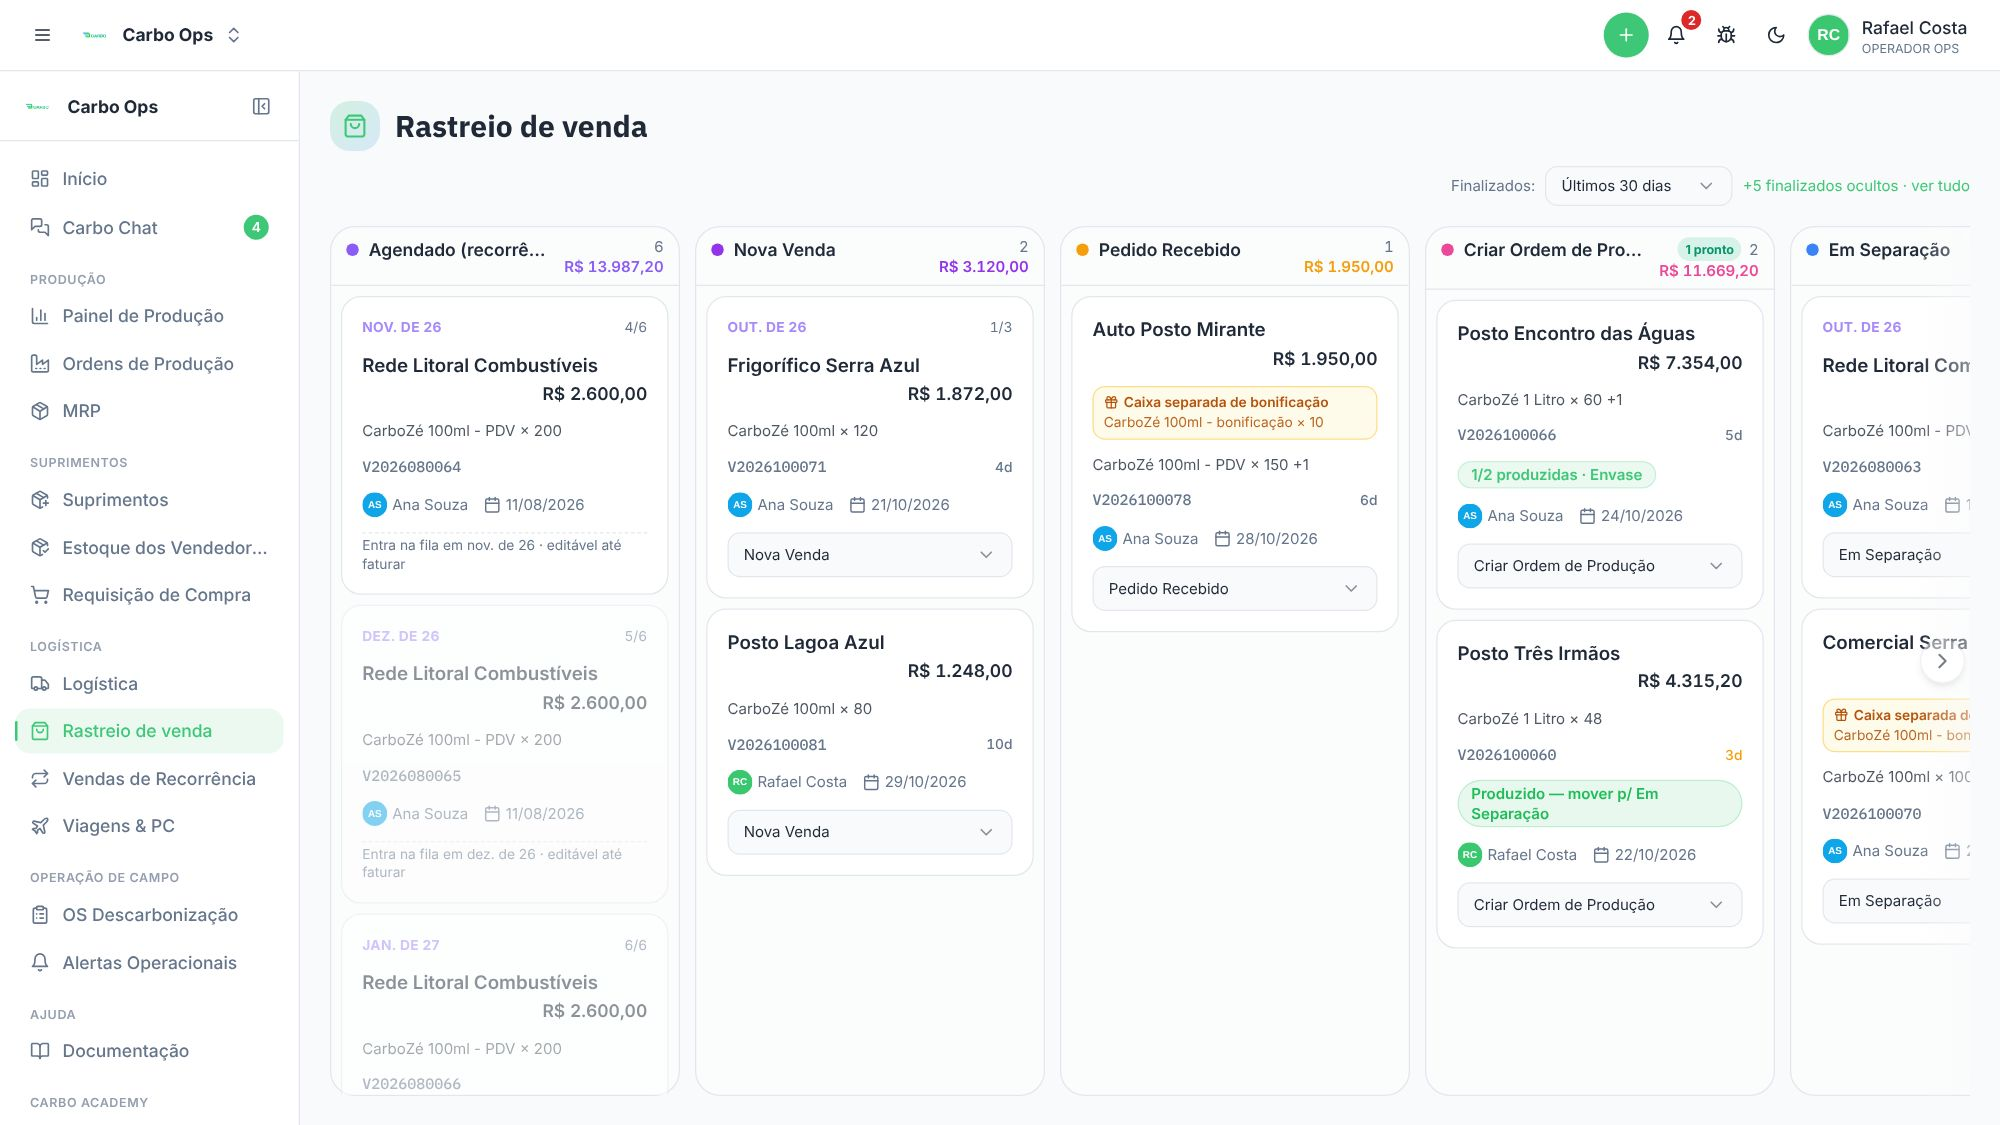
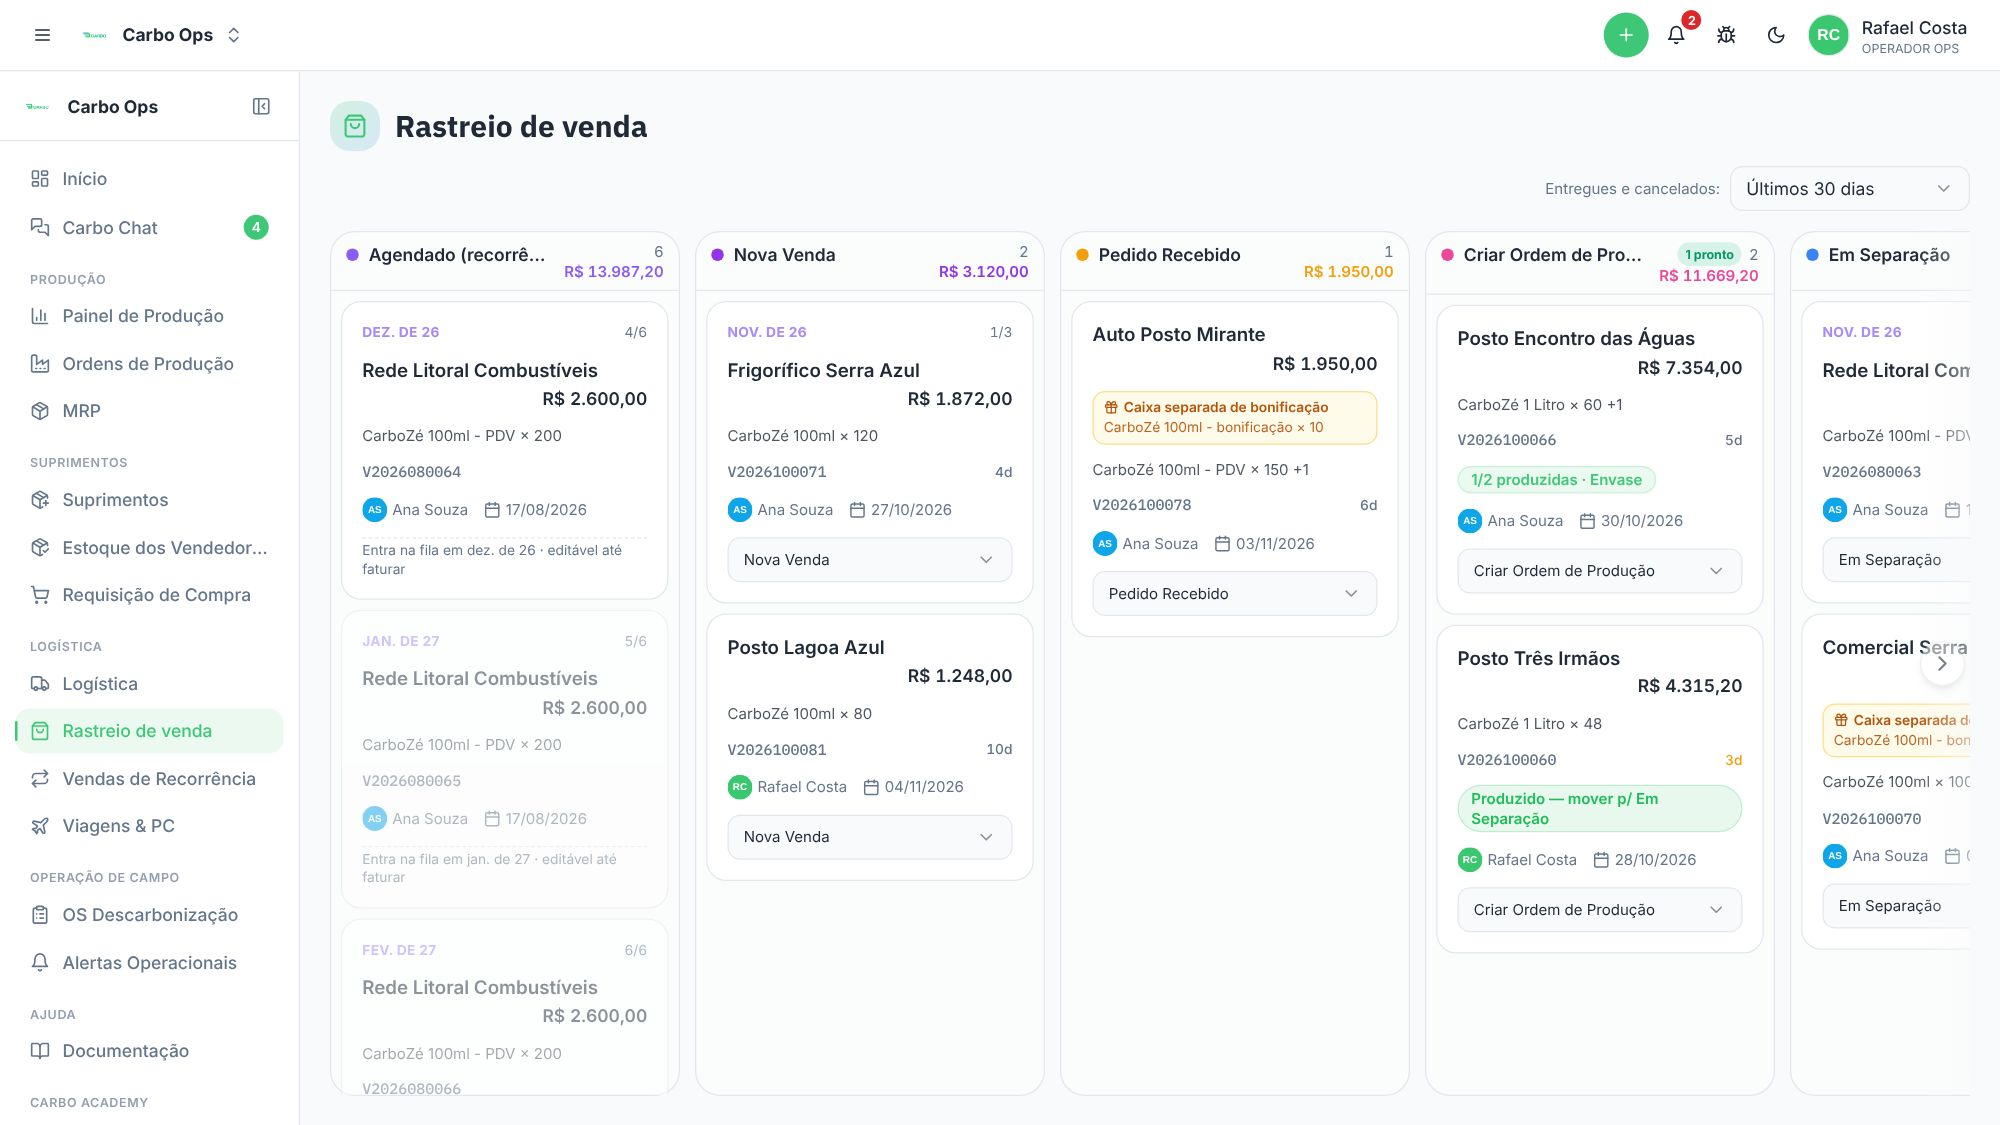
Rastreio (Ops): período só para Entregue e Cancelado, e o card faz sentido com a coluna
- O seletor 'Finalizados 30/90/Tudo' virou o seletor de período dos apps
  ('Entregues e cancelados'), e continua mexendo SÓ nessas duas colunas: os
  pedidos em andamento aparecem sempre todos. Pela data em que o pedido
  chegou à coluna (updated_at). ?finalizados=30|90|tudo antigos continuam lidos.
- 'Tudo' trazia os 500 mais recentes (.limit(500)) e dizia que era tudo:
  agora pagina sem teto (lerSemTeto). Sai a contagem de 'ocultos', que usava
  um filtro diferente do da lista.
- Entregue e Cancelado não mostram mais o prazo ('5d atrasado'), nem a caixa
  de bonificação a separar; o 'falta a NF de venda' fica no entregue sem o
  'não despache', e some no cancelado.

Claude-Session: https://claude.ai/code/session_014dECjKfnWPqtYYc6bX6aZY

diff --git a/apps/ops/src/pages/logistica/PosVenda.tsx b/apps/ops/src/pages/logistica/PosVenda.tsx
@@ -17,7 +17,8 @@ import {
   useEstoqueDoPedido, useOpsBySource, fetchNfFiles, type NfFiles,
   POSVENDA_STAGES, colunaDaEtapa, type FulfillmentStage, type PosVendaOrder,
 } from "@/hooks/usePosVenda";
-import { QuadroRolavel, useParamUrl } from "@carbo/shell";
+import { QuadroRolavel, useParamUrl, intervaloDoAtalho, type Periodo } from "@carbo/shell";
+import { PeriodoFiltro } from "@/components/ui/PeriodoFiltro";
 import { gerarEtiquetaPDF, type EtiquetaData } from "@/lib/etiquetaPdf";
 
 const brl = (v: number) => new Intl.NumberFormat("pt-BR", { style: "currency", currency: "BRL" }).format(v || 0);
@@ -350,6 +351,10 @@ const CorpoDoCard = memo(function CorpoDoCard({ o, op, onStage, onEtiqueta }: {
   onStage: (o: PosVendaOrder, stage: FulfillmentStage) => void;
   onEtiqueta: (o: PosVendaOrder) => void;
 }) {
+  /* ⚠ O card faz sentido com a COLUNA em que está: entregue ou cancelado não
+     tem prazo a cumprir ("5d atrasado" num pedido entregue lia como problema),
+     nem caixa a separar, nem carga a segurar. */
+  const finalizado = o.fulfillment_stage === "entregue" || o.fulfillment_stage === "cancelado";
   return (
     <>
       {/* Recorrência primeiro: o mês devido é a informação que
@@ -371,7 +376,7 @@ const CorpoDoCard = memo(function CorpoDoCard({ o, op, onStage, onEtiqueta }: {
       </div>
       {/* O QUE é o pedido. Antes o card só dizia quem e quanto —
           a Separação tinha de abrir o detalhe para saber o item. */}
-      {itensBonificados(o.items).length > 0 && (
+      {!finalizado && itensBonificados(o.items).length > 0 && (
         <div className="rounded-md border border-amber-400/50 bg-amber-50 dark:bg-amber-950/30 px-2 py-1">
           <p className="text-[11px] font-semibold text-amber-700 dark:text-amber-300 flex items-center gap-1">
             <Gift className="h-3 w-3 shrink-0" /> Caixa separada de bonificação
@@ -386,13 +391,15 @@ const CorpoDoCard = memo(function CorpoDoCard({ o, op, onStage, onEtiqueta }: {
       {/* ⚠ VERMELHO, não âmbar: o de cima é procedimento
           ("embale separado"), este é documento fiscal
           faltando numa carga que pode já estar na rua. */}
-      {faltaNotaDeVenda(o) && (
+      {/* Entregue sem a nota de venda continua sendo problema fiscal — o
+          aviso fica, sem o "não despache". Cancelado não precisa de nota. */}
+      {o.fulfillment_stage !== "cancelado" && faltaNotaDeVenda(o) && (
         <div className="rounded-md border border-red-400/60 bg-red-50 dark:bg-red-950/30 px-2 py-1">
           <p className="text-[11px] font-semibold text-red-700 dark:text-red-300 flex items-center gap-1">
             <FileWarning className="h-3 w-3 shrink-0" /> Só a NF de bonificação está vinculada
           </p>
           <p className="text-[11px] text-red-700/90 dark:text-red-300/90">
-            Falta a NF de venda — não despache sem ela.
+            {finalizado ? "Falta a NF de venda." : "Falta a NF de venda — não despache sem ela."}
           </p>
         </div>
       )}
@@ -401,7 +408,7 @@ const CorpoDoCard = memo(function CorpoDoCard({ o, op, onStage, onEtiqueta }: {
       )}
       <div className="flex items-center justify-between gap-2">
         <p className="text-xs text-muted-foreground font-mono">{o.order_number || "—"}</p>
-        {o.status !== "agendado" && o.agreed_delivery_date && (
+        {!finalizado && o.status !== "agendado" && o.agreed_delivery_date && (
           <span className={`text-[11px] tabular-nums font-medium ${prazoCor(o.agreed_delivery_date)}`}>
             {prazoTexto(o.agreed_delivery_date)}
           </span>
@@ -486,17 +493,28 @@ const CorpoDoCard = memo(function CorpoDoCard({ o, op, onStage, onEtiqueta }: {
 });
 
 export default function PosVenda() {
-  // Janela dos FINALIZADOS (entregue/cancelado). Ativos sempre carregam 100%.
-  // Na URL (`?finalizados=90` ou `=tudo`), para o F5 não voltar aos 30 dias
-  // de quem tinha aberto o histórico inteiro. 30 é o padrão e não aparece.
-  const [finalizadosUrl, setFinalizadosUrl] = useParamUrl("finalizados", "30");
-  const terminalDays: number | "all" = finalizadosUrl === "tudo" ? "all"
-    : (Number(finalizadosUrl) > 0 ? Number(finalizadosUrl) : 30);
-  const setTerminalDays = (v: number | "all") => setFinalizadosUrl(v === "all" ? "tudo" : String(v));
-  const { data, isLoading } = usePosVendaOrders(terminalDays);
+  /* Período dos FINALIZADOS (Entregue e Cancelado) — o seletor de período dos
+     apps, e SÓ para essas duas colunas: os pedidos em andamento aparecem
+     sempre todos (esconder um pedido em operação não faz sentido).
+     URL: `?finalizados=de,ate` (ex. `2026-10-01,2026-10-31`) ou `=tudo`; sem
+     nada, os últimos 30 dias. ⚠ Os valores antigos (`30`, `90`, `tudo`)
+     continuam lidos. */
+  const [finalizadosUrl, setFinalizadosUrl] = useParamUrl("finalizados", "", { replace: true });
+  const finalizados: Periodo = (() => {
+    if (finalizadosUrl === "tudo") return { from: "", to: "" };
+    const m = /^(\d{4}-\d{2}-\d{2}),(\d{4}-\d{2}-\d{2})$/.exec(finalizadosUrl);
+    if (m) return m[1] <= m[2] ? { from: m[1], to: m[2] } : { from: m[2], to: m[1] };
+    if (finalizadosUrl === "90") return intervaloDoAtalho("90d");
+    return intervaloDoAtalho("30d");
+  })();
+  const setFinalizados = (p: Periodo) => {
+    const padrao = intervaloDoAtalho("30d");
+    if (p.from === padrao.from && p.to === padrao.to) return setFinalizadosUrl(null);
+    setFinalizadosUrl(!p.from && !p.to ? "tudo" : `${p.from},${p.to}`);
+  };
+  const { data, isLoading } = usePosVendaOrders(finalizados);
   usePosVendaRealtime(); // move card → reflete na tela de todos ao vivo
   const orders = data?.orders ?? [];
-  const terminalHidden = Math.max(0, (data?.terminalTotal ?? 0) - (data?.terminalShown ?? 0));
   const updateStage = useUpdateFulfillmentStage();
   const updateShipInfo = useUpdateShipmentInfo();
   const [dragId, setDragId] = useState<string | null>(null);
@@ -807,22 +825,10 @@ export default function PosVenda() {
           icon={ShoppingBag}
         />
 
-        {/* Janela dos finalizados — os ativos sempre aparecem 100%. */}
+        {/* Período só dos finalizados — os em andamento aparecem sempre todos. */}
         <div className="flex items-center justify-end gap-2 shrink-0 -mt-1 flex-wrap">
-          <span className="text-xs text-muted-foreground">Finalizados:</span>
-          <Select value={String(terminalDays)} onValueChange={(v) => setTerminalDays(v === "all" ? "all" : Number(v))}>
-            <SelectTrigger className="h-8 w-[150px] text-xs"><SelectValue /></SelectTrigger>
-            <SelectContent>
-              <SelectItem value="30">Últimos 30 dias</SelectItem>
-              <SelectItem value="90">Últimos 90 dias</SelectItem>
-              <SelectItem value="all">Tudo</SelectItem>
-            </SelectContent>
-          </Select>
-          {terminalDays !== "all" && terminalHidden > 0 && (
-            <button onClick={() => setTerminalDays("all")} className="text-xs text-primary hover:underline">
-              +{terminalHidden} finalizado{terminalHidden > 1 ? "s" : ""} oculto{terminalHidden > 1 ? "s" : ""} · ver tudo
-            </button>
-          )}
+          <span className="text-xs text-muted-foreground">Entregues e cancelados:</span>
+          <PeriodoFiltro value={finalizados} onChange={setFinalizados} comTodo longos disableFuture />
         </div>
 
         {isLoading ? (

diff --git a/apps/ops/src/hooks/usePosVenda.ts b/apps/ops/src/hooks/usePosVenda.ts
@@ -2,7 +2,7 @@ import { useEffect } from "react";
 import { useQuery, useMutation, useQueryClient } from "@tanstack/react-query";
 import { supabase } from "@/integrations/supabase/client";
 import { toast } from "sonner";
-import { lerSemTeto, lerPorIdsSemTeto } from "@carbo/shell";
+import { lerSemTeto, lerPorIdsSemTeto, intervaloDoAtalho, type Periodo } from "@carbo/shell";
 
 // ─────────────────────────────────────────────────────────────────────────────
 // Pós-venda: jornada das VENDAS MANUAIS (carboze_orders sem external_ref — as
@@ -254,20 +254,25 @@ const TERMINAL_STAGES = ["entregue", "cancelado"];
 
 export interface PosVendaData {
   orders: PosVendaOrder[];
-  terminalShown: number;   // finalizados carregados (dentro da janela)
-  terminalTotal: number;   // finalizados no total (para saber quantos ficaram fora)
+  terminalShown: number;   // finalizados carregados (dentro do período)
 }
 
 /**
- * Vendas manuais para o rastreio. NUNCA trunca os ATIVOS (carrega todos); os
- * FINALIZADOS (entregue/cancelado) vêm por JANELA DE TEMPO (terminalDays), com
- * contagem real — assim o board fica leve sem esconder nada em silêncio.
+ * Vendas manuais para o rastreio. NUNCA recorta os ATIVOS (carrega todos); só
+ * os FINALIZADOS (entregue/cancelado) vêm pelo PERÍODO escolhido na tela (o
+ * seletor de período dos apps), pela data em que foram movidos (`updated_at`).
+ * Período vazio = todos os finalizados.
+ *
+ * ⚠ Era `terminalDays` (30/90/"tudo") com `.limit(500)`: "Tudo" trazia os 500
+ * mais recentes e dizia que era tudo. Agora pagina sem teto (`lerSemTeto`).
  */
-export function usePosVendaOrders(terminalDays: number | "all" = 30) {
+export function usePosVendaOrders(finalizados: Periodo = intervaloDoAtalho("30d")) {
   return useQuery({
-    queryKey: ["ops", "pos-venda", terminalDays],
+    queryKey: ["ops", "pos-venda", finalizados.from, finalizados.to],
     queryFn: async (): Promise<PosVendaData> => {
-      const cutoff = terminalDays === "all" ? null : new Date(Date.now() - terminalDays * 86_400_000).toISOString();
+      // Dia LOCAL inteiro nas duas pontas (00:00 do início, 23:59:59 do fim).
+      const desde = finalizados.from ? new Date(`${finalizados.from}T00:00:00`).toISOString() : null;
+      const ate = finalizados.to ? new Date(`${finalizados.to}T23:59:59.999`).toISOString() : null;
       // Rastreio = vendas MANUAIS (Carbo Sales). Regra do external_ref:
       //  • sem external_ref → venda ainda no fluxo manual (aparece).
       //  • com external_ref (foi pro Bling p/ NF) → só aparece se for venda
@@ -287,13 +292,14 @@ export function usePosVendaOrders(terminalDays: number | "all" = 30) {
           .not("fulfillment_stage", "in", "(entregue,cancelado)")
           .order("created_at", { ascending: false }).order("id"))
           .then((data) => ({ data, error: null }), (error) => ({ data: null, error }));
-      // Finalizados: só dentro da janela, mais recentes primeiro.
-      const runTerminal = (cols: string) => {
-        let q = base(cols).in("fulfillment_stage", TERMINAL_STAGES)
-          .order("updated_at", { ascending: false }).limit(500);
-        if (cutoff) q = q.gte("updated_at", cutoff);
-        return q;
-      };
+      // Finalizados: só dentro do período, mais recentes primeiro — sem teto.
+      const runTerminal = (cols: string): Promise<{ data: any[] | null; error: any }> =>
+        lerSemTeto<any>(() => {
+          let q = base(cols).in("fulfillment_stage", TERMINAL_STAGES);
+          if (desde) q = q.gte("updated_at", desde);
+          if (ate) q = q.lte("updated_at", ate);
+          return q.order("updated_at", { ascending: false }).order("id");
+        }).then((data) => ({ data, error: null }), (error) => ({ data: null, error }));
 
       let act = await runActive(SELECT_COLS);
       let term = await runTerminal(SELECT_COLS);
@@ -316,16 +322,6 @@ export function usePosVendaOrders(terminalDays: number | "all" = 30) {
       act.data = (act.data || []).filter(notServiceOnly);
       term.data = (term.data || []).filter(notServiceOnly);
 
-      // Total de finalizados (para o "há mais N ocultos"). Só quando há janela.
-      let terminalTotal = (term.data || []).length;
-      if (cutoff) {
-        const cnt = await db.from("carboze_orders")
-          .select("*", { count: "exact", head: true })
-          .is("external_ref", null).or("status.is.null,status.neq.quote")
-          .in("fulfillment_stage", TERMINAL_STAGES);
-        terminalTotal = cnt.count ?? terminalTotal;
-      }
-
       const list = [...(act.data || []), ...(term.data || [])] as PosVendaOrder[];
 
       // Enriquece com a foto do vendedor (profiles.avatar_url).
@@ -335,7 +331,7 @@ export function usePosVendaOrders(terminalDays: number | "all" = 30) {
         const map = new Map((profs || []).map((p: any) => [p.id, p.avatar_url]));
         for (const o of list) o.vendedor_avatar = (o.vendedor_id && map.get(o.vendedor_id)) || null;
       }
-      return { orders: list, terminalShown: (term.data || []).length, terminalTotal };
+      return { orders: list, terminalShown: (term.data || []).length };
     },
     refetchInterval: 60_000,
   });

diff --git a/apps/ops/src/docs/secoes/logistica.ts b/apps/ops/src/docs/secoes/logistica.ts
@@ -16,7 +16,7 @@ export const SECOES_LOGISTICA: Secao[] = [
       colaborador: [
         "Vê os pedidos de todos os vendedores e move qualquer um de etapa.",
         "Entram no quadro as vendas lançadas pela tela Vender (no Sales ou aqui). Pedidos de loja on-line e pedidos que nasceram no Bling não entram. Venda só de serviço (descarbonização) também não: ela segue pela Ordem de Serviço.",
-        "Pedidos entregues e cancelados aparecem só dos últimos 30 dias, a não ser que você mude o filtro “Finalizados”.",
+        "Pedidos entregues e cancelados aparecem só dos últimos 30 dias, a não ser que você mude o período “Entregues e cancelados”.",
         "O quadro se atualiza sozinho: quando alguém move um card, ele muda na sua tela também.",
       ],
       gestor: [
@@ -29,12 +29,11 @@ export const SECOES_LOGISTICA: Secao[] = [
         print: { chave: "rastreio", legenda: "Rastreio de venda com os pedidos em cada etapa." },
         itens: [
           { n: 1, titulo: "Rastreio de venda", texto: "A jornada das vendas manuais. Operações controla da Nova Venda até a Entrega." },
-          { n: 2, titulo: "Finalizados", texto: "Quantos dias de pedidos entregues e cancelados aparecem: últimos 30 dias, últimos 90 dias ou tudo. Os pedidos em andamento aparecem sempre, todos." },
-          { n: 3, titulo: "Finalizados ocultos", texto: "Avisa quantos entregues/cancelados ficaram fora do período escolhido. Clique para ver tudo." },
-          { n: 4, titulo: "Coluna = etapa", texto: "Cada coluna é uma etapa, na ordem em que o pedido anda. Role o quadro para o lado para ver as outras: são doze." },
-          { n: 5, titulo: "Quantidade", texto: "Quantos pedidos estão naquela etapa agora." },
-          { n: 6, titulo: "Card do pedido", texto: "Um pedido. Clique para abrir os detalhes; arraste para outra coluna para mudar a etapa." },
-          { n: 7, titulo: "Seletor de etapa", texto: "Outra forma de mudar a etapa, sem arrastar: escolha a nova etapa na lista. Arrastar e escolher passam pelas mesmas conferências (veja “Mudando de etapa”)." },
+          { n: 2, titulo: "Entregues e cancelados", texto: "O período das colunas Entregue e Cancelado, pela data em que o pedido chegou nelas: Todo o período, Hoje, Ontem, Últimos 7, 30 ou 90 dias, Últimos 6 ou 12 meses, Este mês (até hoje), Mês fechado… ou Por período…. O padrão é Últimos 30 dias. Não mexe nas outras colunas: os pedidos em andamento aparecem sempre, todos." },
+          { n: 3, titulo: "Coluna = etapa", texto: "Cada coluna é uma etapa, na ordem em que o pedido anda. Role o quadro para o lado para ver as outras: são doze." },
+          { n: 4, titulo: "Quantidade", texto: "Quantos pedidos estão naquela etapa agora." },
+          { n: 5, titulo: "Card do pedido", texto: "Um pedido. Clique para abrir os detalhes; arraste para outra coluna para mudar a etapa." },
+          { n: 6, titulo: "Seletor de etapa", texto: "Outra forma de mudar a etapa, sem arrastar: escolha a nova etapa na lista. Arrastar e escolher passam pelas mesmas conferências (veja “Mudando de etapa”)." },
         ],
       },
       {
@@ -64,7 +63,7 @@ export const SECOES_LOGISTICA: Secao[] = [
           { n: 3, titulo: "Caixa separada de bonificação", texto: "O pedido tem brinde. A bonificação sai em caixa separada e com nota própria (a nota de remessa em bonificação). Embale à parte, senão a nota não fecha com o volume." },
           { n: 4, titulo: "O que é o pedido", texto: "O primeiro produto e a quantidade; “+1” quer dizer que há mais itens (veja todos nos detalhes)." },
           { n: 5, titulo: "Número do pedido", texto: "O número da venda (começa com V). É o mesmo do Sales e do rodapé da nota fiscal." },
-          { n: 6, titulo: "Prazo de entrega", texto: "Quantos dias faltam para a entrega combinada com o cliente: em âmbar quando faltam 3 dias ou menos, em vermelho quando já passou (“2d atrasado”)." },
+          { n: 6, titulo: "Prazo de entrega", texto: "Quantos dias faltam para a entrega combinada com o cliente: em âmbar quando faltam 3 dias ou menos, em vermelho quando já passou (“2d atrasado”). Não aparece nos pedidos entregues e cancelados." },
           { n: 7, titulo: "NF de venda", texto: "A nota fiscal de venda. Clique para abrir o DANFE (o PDF da nota) e mandar com a carga. Se o PDF ainda não existir, abre o XML. O chip acompanha o card até a entrega, porque é depois dela que o cliente costuma pedir a nota." },
           { n: 8, titulo: "NF de bonificação", texto: "A nota de remessa do brinde. Clique para abrir o DANFE dela. As duas notas viajam juntas com a carga." },
           { n: 9, titulo: "Emitir etiqueta", texto: "Só aparece na etapa Emitir Etiqueta. Abre a emissão da etiqueta de transporte (veja abaixo). Em Etiqueta emitida o botão vira “Reimprimir etiqueta”." },

diff --git a/apps/ops/src/docs/marcadores.ts b/apps/ops/src/docs/marcadores.ts
@@ -363,12 +363,11 @@ export const MARCADORES: Record<string, Record<number, Caixa>> = {
   },
   "rastreio": {
     1: { x: 19.75, y: 9.44, w: 12.65, h: 3.56 },
-    2: { x: 77.26, y: 14.78, w: 9.38, h: 3.56 },
-    3: { x: 87.14, y: 15.67, w: 11.36, h: 1.78 },
-    4: { x: 34.81, y: 20.22, w: 17.38, h: 5.22 },
-    5: { x: 50.95, y: 21.11, w: 0.49, h: 1.78 },
-    6: { x: 35.31, y: 54.13, w: 16.38, h: 23.74 },
-    7: { x: 36.38, y: 71.97, w: 14.25, h: 4 },
+    2: { x: 86.5, y: 14.78, w: 12, h: 4 },
+    3: { x: 34.81, y: 20.67, w: 17.38, h: 5.22 },
+    4: { x: 50.95, y: 21.56, w: 0.49, h: 1.78 },
+    5: { x: 35.31, y: 54.57, w: 16.38, h: 23.74 },
+    6: { x: 36.38, y: 72.42, w: 14.25, h: 4 },
   },
   "rastreio-agendado": {
     1: { x: 12.75, y: 13.79, w: 74.51, h: 5.83 },
